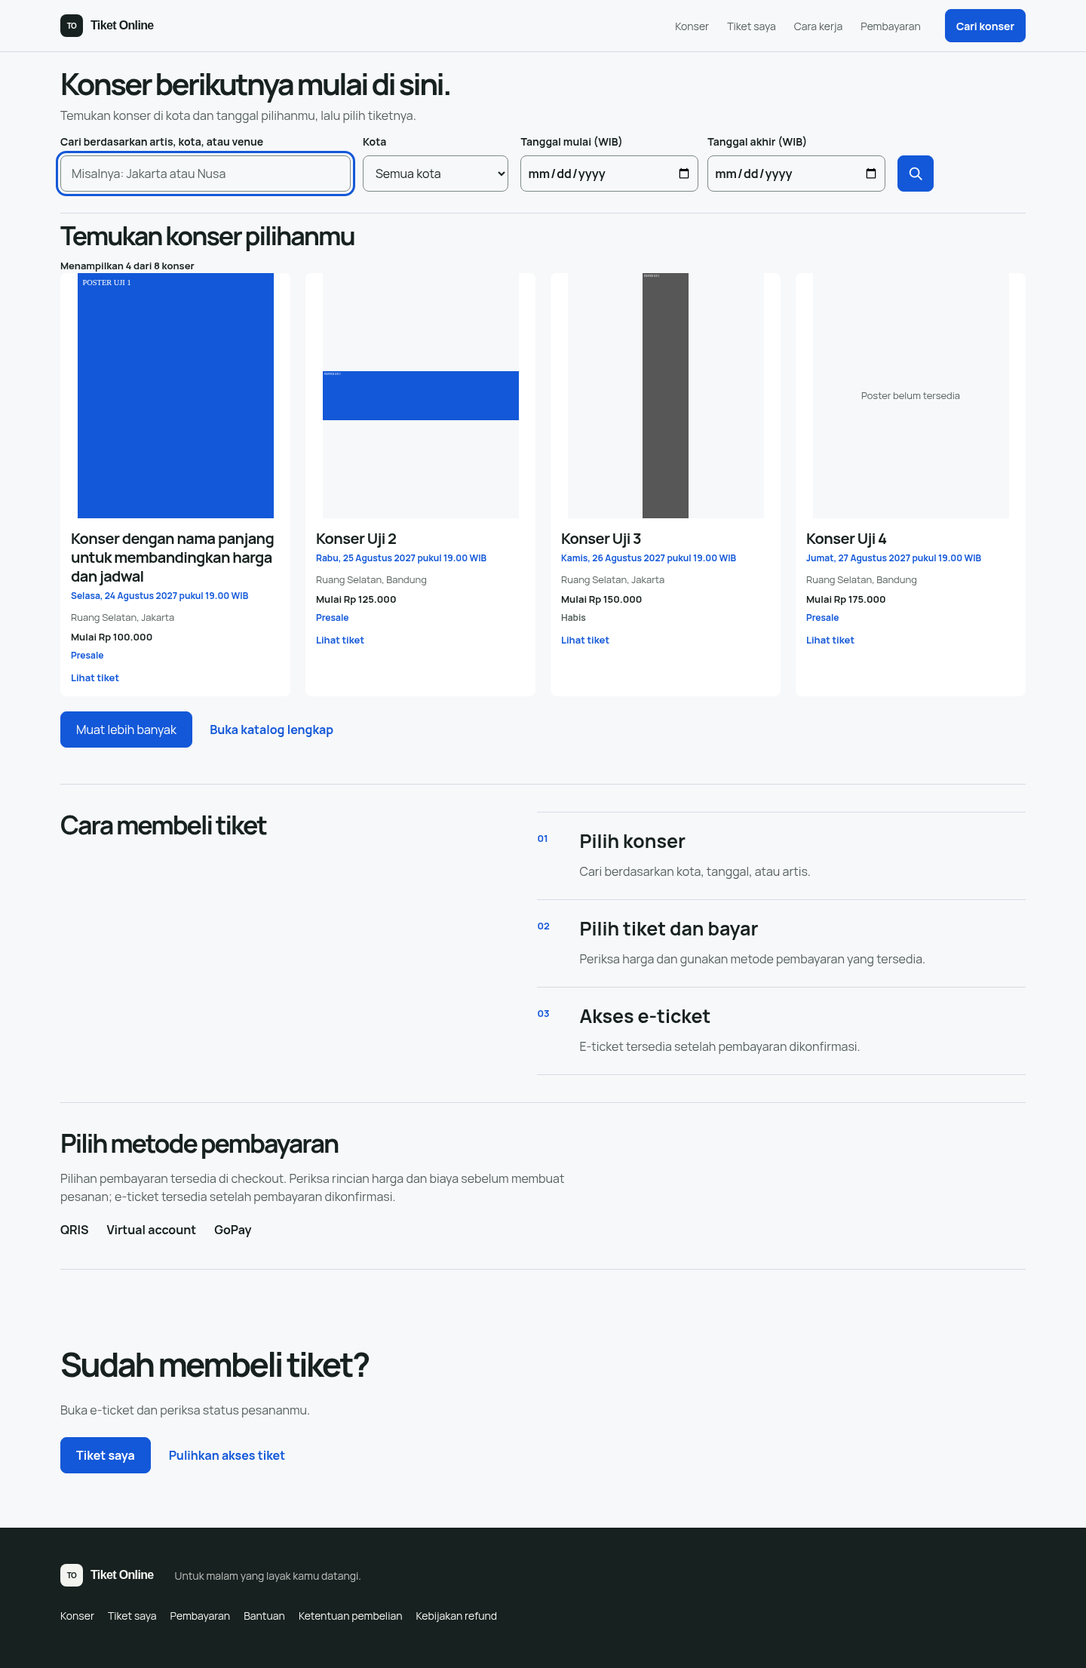
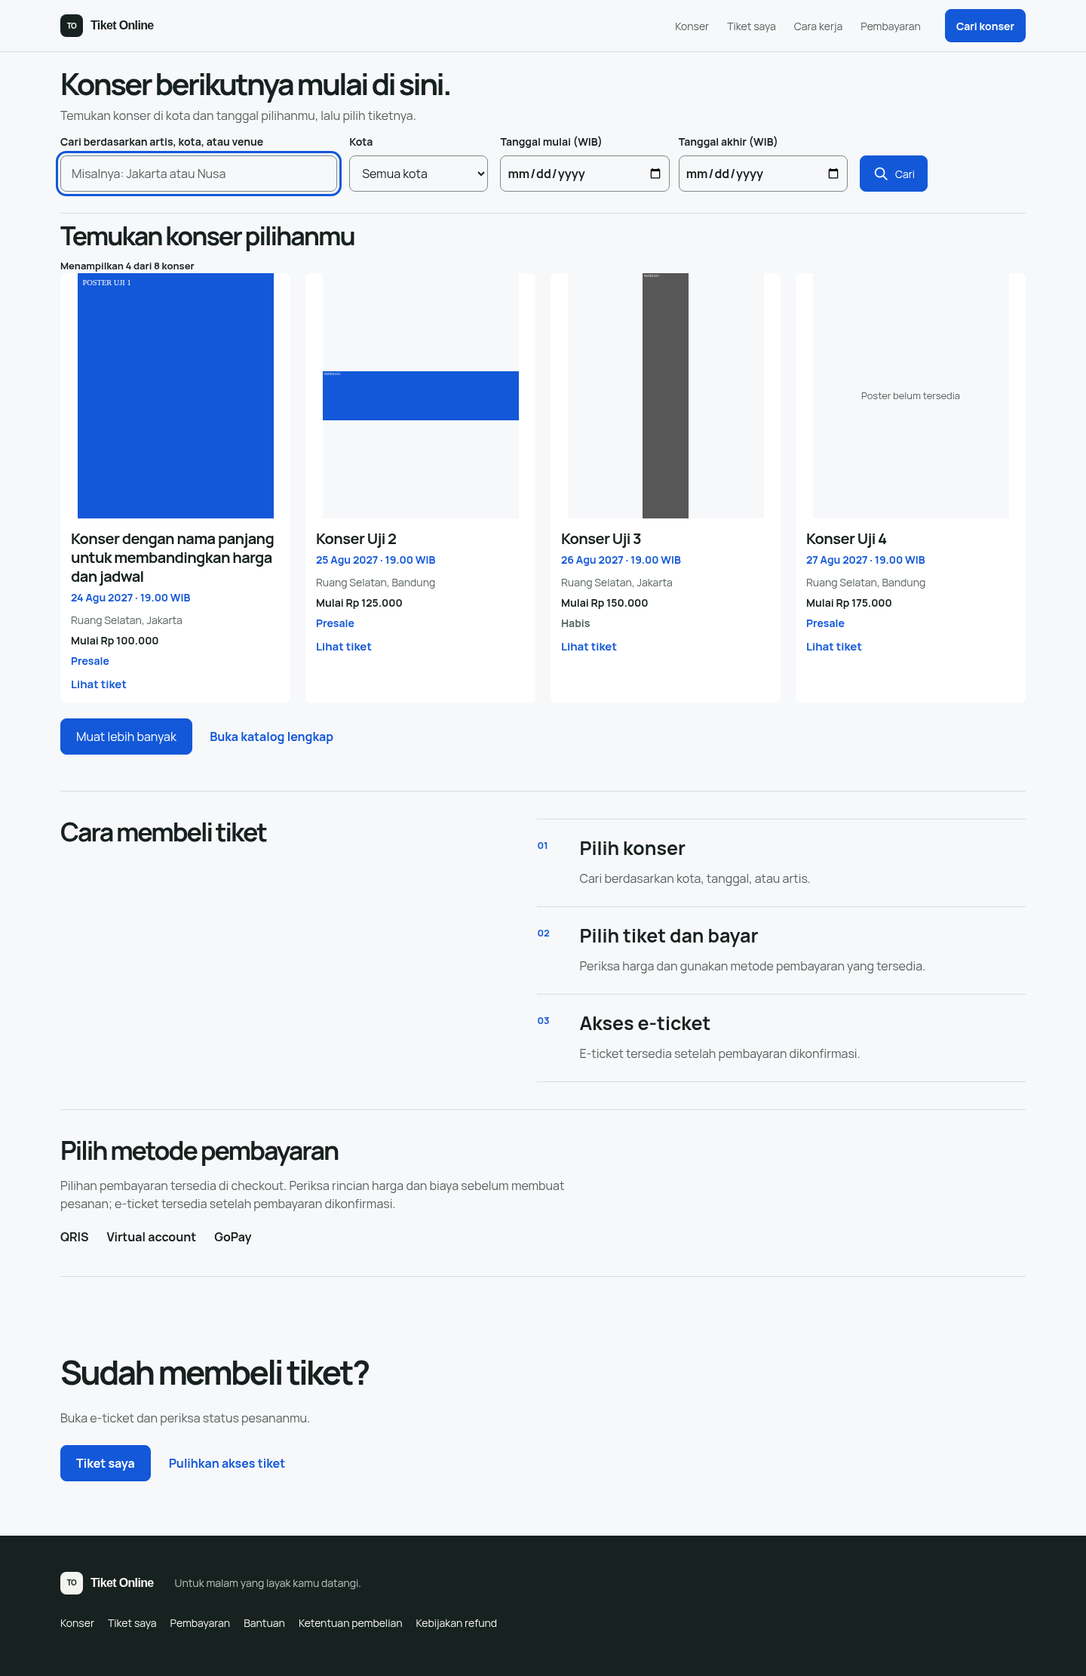
fix : redesign mobile device ui (#35)
* fix : redesign mobile device ui

* fix: apply PR #35 review feedback

- keep docs/phase59-63 evidence tracked (drop ineffective ignore rule)
- update phase59-63 and phase64-68 docs to new labels
- descriptive region names for My Tickets tabs; update Playwright selectors
- merge duplicate mobile .ticket-categories rules
- remove redundant konser.css mobile override
- assert every search action button meets 48px target
- guide eyebrow no longer repeats h1
- share WIB date guard between eventDate and cardDate

diff --git a/frontend/src/styles/pages/konser.css b/frontend/src/styles/pages/konser.css
@@ -18,7 +18,7 @@
 .filter-chip { min-height: 44px; padding: 0 12px; border: 1px solid var(--control-line); border-radius: 999px; background: var(--surface); color: var(--ink); font: inherit; font-size: 13px; cursor: pointer; }
 .filter-chip span { margin-left: 6px; color: var(--accent); font-size: 17px; }
 .filter-tools { display: flex; align-items: flex-start; gap: 20px; margin-bottom: 8px; }
-.catalog-form .search-actions { flex: 0 0 170px; }
+.catalog-form .search-actions { flex: 0 0 220px; }
 .filters { min-width: 0; flex: 1; }
 .filters summary { min-height: 48px; display: flex; align-items: center; flex-wrap: wrap; gap: 6px 16px; cursor: pointer; list-style: none; }
 .filters summary::-webkit-details-marker { display: none; }
@@ -59,13 +59,13 @@
 .poster-fallback { position: absolute; inset: 0; display: grid; place-items: center; padding: 10px; color: var(--muted); text-align: center; font-size: 13px; }
 .concert-card.is-sold-out .concert-poster { filter: grayscale(1) contrast(.9); }
 .concert-card-body { display: flex; min-width: 0; flex-direction: column; align-items: flex-start; padding: 14px; }
-.concert-meta, .concert-change { margin: 0 0 10px; color: var(--accent); font-size: 12px; font-weight: 700; line-height: 1.4; }
+.concert-meta, .concert-change { margin: 0 0 10px; color: var(--accent); font-size: 14px; font-weight: 700; line-height: 1.4; }
 .concert-change { margin: 6px 0 0; }
-.concert-action { margin-top: auto; padding-top: 10px; color: var(--accent); font-size: 13px; font-weight: 700; }
+.concert-action { margin-top: auto; padding-top: 10px; color: var(--accent); font-size: 15px; font-weight: 700; }
 .concert-card h3 { margin: 0 0 6px; font-size: 20px; line-height: 1.25; letter-spacing: -.03em; overflow-wrap: anywhere; }
-.concert-venue, .concert-price { margin: 0; color: var(--muted); font-size: 13px; line-height: 1.4; }
+.concert-venue, .concert-price { margin: 0; color: var(--muted); font-size: 14px; line-height: 1.4; }
 .concert-price { margin-top: 8px; color: var(--ink); font-weight: 700; }
-.concert-status { display: inline-flex; min-height: 26px; align-items: center; margin-top: 0; padding-top: 6px; color: var(--accent); font-size: 12px; font-weight: 700; }
+.concert-status { display: inline-flex; min-height: 26px; align-items: center; margin-top: 0; padding-top: 6px; color: var(--accent); font-size: 14px; font-weight: 700; }
 .is-sold-out .concert-status { color: var(--muted); }
 .catalog-empty { max-width: 620px; padding: 30px 0; border-top: 1px solid var(--line); }
 .catalog-empty p { margin: 0 0 14px; color: var(--muted); }
@@ -81,7 +81,6 @@
   .filter-tools { gap: 8px; flex-direction: column; }
   .catalog-search-row { flex-wrap: wrap; }
   .catalog-search-row > input { flex-basis: 240px; }
-  .catalog-form .search-actions { flex: 0 0 170px; }
   .filters { width: 100%; }
   .filters summary { gap: 5px 8px; }
   .filters summary span { flex: 1; }
@@ -92,9 +91,8 @@
   .concert-card-link { display: grid; grid-template-columns: 104px minmax(0, 1fr); min-height: 154px; }
   .concert-poster-frame { align-self: start; }
   .concert-card-body { min-height: 154px; padding: 12px; }
-  .concert-meta { margin-bottom: 6px; font-size: 11px; }
+  .concert-meta { margin-bottom: 6px; }
   .concert-card h3 { font-size: 19px; }
-  .concert-venue, .concert-price { font-size: 12px; }
-  .concert-status { padding-top: 6px; font-size: 11px; }
+  .concert-status { padding-top: 6px; }
 }
 @media (prefers-reduced-motion: reduce) { .concert-card:hover { transform: none; } }

diff --git a/frontend/src/pages/public/MyTicketsPage.svelte b/frontend/src/pages/public/MyTicketsPage.svelte
@@ -18,7 +18,7 @@
   const groups = $derived(groupBuyerOrders(orders));
   const followups = $derived(orders.filter(({ detail }) => detail?.currentEvent?.status === "POSTPONED" || detail?.status === "REFUND_PENDING" || detail?.refundRight?.requested && detail.refund?.status !== "SUCCEEDED" || detail?.refund && detail.refund.status !== "SUCCEEDED"));
   const storageFailed = $derived(orders.some((order) => order.accessSaved === false));
-  const categories = [{ id: "active", label: "Tiket aktif" }, { id: "pending", label: "Menunggu pembayaran" }, { id: "history", label: "Riwayat" }] as const;
+  const categories = [{ id: "active", label: "Aktif", region: "Tiket aktif" }, { id: "pending", label: "Belum dibayar", region: "Pesanan belum dibayar" }, { id: "history", label: "Riwayat", region: "Riwayat pesanan" }] as const;
 
   async function refreshOrder(order: BuyerOrderTickets) {
     const id = order.access.orderId;
@@ -133,7 +133,7 @@
     <nav class="ticket-categories" aria-label="Kategori pesanan">
       {#each categories as category}<button type="button" aria-pressed={selected === category.id} onclick={() => { selected = category.id; }}>{category.label} <span>{groups[category.id].length}</span></button>{/each}
     </nav>
-    <section aria-label={categories.find((category) => category.id === selected)!.label}>
+    <section aria-label={categories.find((category) => category.id === selected)!.region}>
       {#if groups[selected].length}
         <div class="my-tickets-summary"><strong>{groups[selected].length} pesanan</strong><button class="text-button" type="button" disabled={loadingOrders.length > 0} onclick={() => { for (const order of orders) void refreshOrder(order); }}>Periksa lagi</button></div>
         <ul class="my-tickets-list" aria-label="Daftar pesanan">{#each groups[selected] as order (order.access.orderId)}{@render orderCard(order)}{/each}</ul>
@@ -168,8 +168,8 @@
     .my-ticket-card-link { grid-template-columns: minmax(0, 1fr); }
     .my-ticket-mark { display: none; }
     .my-ticket-card-body { padding: 18px; }
-    .ticket-categories { gap: 6px; }
-    .ticket-categories button { padding: 10px; font-size: 14px; }
+    .ticket-categories { display: grid; grid-template-columns: repeat(3, minmax(0, 1fr)); gap: 6px; }
+    .ticket-categories button { justify-content: center; min-height: 48px; padding: 8px 6px; font-size: 14px; text-align: center; }
     .my-order-actions .button { width: 100%; }
   }
 </style>

diff --git a/frontend/src/lib/concerts.ts b/frontend/src/lib/concerts.ts
@@ -23,7 +23,15 @@ function tiers(status: TicketStatus): TicketTier[] {
 }
 
 export const formatEventDate = new Intl.DateTimeFormat("id-ID", { dateStyle: "full", timeStyle: "short", timeZone: "Asia/Jakarta" });
-export function eventDate(startsAt: string | null | undefined) { if (!startsAt || !Number.isFinite(Date.parse(startsAt))) return "Jadwal belum diumumkan"; return `${formatEventDate.format(new Date(startsAt))} WIB`; }
+function wibDate(startsAt: string | null | undefined, format: (date: Date) => string) {
+  if (!startsAt || !Number.isFinite(Date.parse(startsAt))) return "Jadwal belum diumumkan";
+  return `${format(new Date(startsAt))} WIB`;
+}
+export const eventDate = (startsAt: string | null | undefined) => wibDate(startsAt, (date) => formatEventDate.format(date));
+const formatCardDay = new Intl.DateTimeFormat("id-ID", { day: "numeric", month: "short", year: "numeric", timeZone: "Asia/Jakarta" });
+const formatCardTime = new Intl.DateTimeFormat("id-ID", { hour: "2-digit", minute: "2-digit", timeZone: "Asia/Jakarta" });
+/** Compact card date, e.g. "24 Agu 2027 · 19.30 WIB". */
+export const cardDate = (startsAt: string | null | undefined) => wibDate(startsAt, (date) => `${formatCardDay.format(date)} · ${formatCardTime.format(date)}`);
 
 function concert(id: string, artist: string, city: string, venue: string, startsAt: string, genre: Genre, price: number, status: TicketStatus): Concert {
   return { id, artist, city, venue, address: `Jl. Musik Raya, ${city}`, date: eventDate(startsAt), startsAt, genre, price, status, image: `https://picsum.photos/seed/${id}/900/1100`, description: `${artist} hadir dalam konser contoh dengan pilihan tiket untuk area panggung dan penonton.`, lineup: [artist, "Pembuka Sore", "Tamu Spesial"], zones, ticketTiers: tiers(status).map((tier) => tier.name === "Festival" ? { ...tier, price } : tier) };

diff --git a/frontend/src/pages/public/ConcertCatalogPage.svelte b/frontend/src/pages/public/ConcertCatalogPage.svelte
@@ -96,7 +96,7 @@
     <form class="catalog-form" role="search" onsubmit={search}>
     <div class="results">
       <div class="catalog-search"><label for="concert-query">Cari konser</label><div class="catalog-search-row"><input bind:this={input} bind:value={query} id="concert-query" name="query" type="search" autocomplete="off" placeholder="Artis, venue, atau kota" />
-      <div class="search-actions"><button class="button search-submit" type="submit" aria-label="Cari" title="Cari"><svg width="22" height="22" viewBox="0 0 24 24" fill="none" stroke="currentColor" stroke-width="2" stroke-linecap="round" aria-hidden="true"><circle cx="10.5" cy="10.5" r="6.5" /><path d="m16 16 4.5 4.5" /></svg></button>{#if searched}<button class="button reset-filters" type="button" onclick={reset}>Reset filter</button>{/if}</div>
+      <div class="search-actions"><button class="button search-submit" type="submit"><svg width="22" height="22" viewBox="0 0 24 24" fill="none" stroke="currentColor" stroke-width="2" stroke-linecap="round" aria-hidden="true"><circle cx="10.5" cy="10.5" r="6.5" /><path d="m16 16 4.5 4.5" /></svg>Cari</button>{#if searched}<button class="button reset-filters" type="button" onclick={reset}>Reset filter</button>{/if}</div>
       </div></div>
       {#if loading}<p class="results-count" role="status" aria-live="polite">Memuat katalog konser...</p>{:else if error}<div class="empty-state" role="alert"><p>{error}</p><button class="text-button" type="button" onclick={() => load()}>Coba lagi</button></div>{:else}<div class="results-topline"><p class="sample-note">Katalog terbaru.</p><p class="results-count" aria-live="polite">{matches.length ? `${matches.length} konser ditemukan` : "Tidak ada konser ditemukan"}</p></div>{/if}
     </div>

diff --git a/frontend/src/components/ConcertCard.svelte b/frontend/src/components/ConcertCard.svelte
@@ -1,5 +1,5 @@
 <script lang="ts">
-  import { eventDate, formatRupiah, type Concert } from "../lib/concerts.ts";
+  import { cardDate, formatRupiah, type Concert } from "../lib/concerts.ts";
   import { canBuy, eventStatus } from "../lib/event-changes.ts";
   let { concert, featuredPoster = false }: { concert: Concert; featuredPoster?: boolean } = $props();
   const changedStatus = $derived(eventStatus(concert.currentEvent));
@@ -16,7 +16,7 @@
     </div>
     <div class="concert-card-body">
       <h3>{concert.artist}</h3>
-      <p class="concert-meta">{eventDate(concert.currentEvent ? concert.currentEvent.startsAt : concert.startsAt)}</p>
+      <p class="concert-meta">{cardDate(concert.currentEvent ? concert.currentEvent.startsAt : concert.startsAt)}</p>
       <p class="concert-venue">{concert.venue}, {concert.city}</p>
       <p class="concert-price">{concert.ticketTiers.length ? `Mulai ${formatRupiah.format(Math.min(...concert.ticketTiers.map((tier) => tier.price)))}` : "Tiket belum tersedia"}</p>
       {#if changedStatus}<p class="concert-change">{changedStatus}</p>{/if}

diff --git a/frontend/src/pages/public/HomePage.svelte b/frontend/src/pages/public/HomePage.svelte
@@ -55,7 +55,7 @@
         </div>
       </details>
     </div>
-    <div class="search-actions"><button class="button search-submit" type="submit" aria-label="Cari" title="Cari"><svg width="22" height="22" viewBox="0 0 24 24" fill="none" stroke="currentColor" stroke-width="2" stroke-linecap="round" aria-hidden="true"><circle cx="10.5" cy="10.5" r="6.5" /><path d="m16 16 4.5 4.5" /></svg></button>{#if searched}<button class="button reset-filters" type="button" onclick={reset}>Reset filter</button>{/if}</div>
+    <div class="search-actions"><button class="button search-submit" type="submit"><svg width="22" height="22" viewBox="0 0 24 24" fill="none" stroke="currentColor" stroke-width="2" stroke-linecap="round" aria-hidden="true"><circle cx="10.5" cy="10.5" r="6.5" /><path d="m16 16 4.5 4.5" /></svg>Cari</button>{#if searched}<button class="button reset-filters" type="button" onclick={reset}>Reset filter</button>{/if}</div>
   </form>
 </section>
 <section class="event-section shell" id="konser" aria-labelledby="event-title">

diff --git a/frontend/src/styles/pages/panduan.css b/frontend/src/styles/pages/panduan.css
@@ -22,8 +22,8 @@
 @keyframes guide-reveal { from { opacity: 0; transform: translateY(-4px); } to { opacity: 1; transform: translateY(0); } }
 @media (prefers-reduced-motion: reduce) { .accordion-panel { animation: none; } }
 @media (max-width: 767px) {
-  .guide-hero { grid-template-columns: 1fr; gap: 24px; padding-block: 52px 28px; }
-  .guide-hero h1 { font-size: clamp(44px, 13vw, 64px); }
+  .guide-hero { grid-template-columns: 1fr; gap: 12px; padding-block: 32px 20px; }
+  .guide-hero h1 { font-size: clamp(34px, 10vw, 44px); line-height: 1.05; }
   .guide-intro { margin: 0; font-size: 16px; }
   .guide-index { grid-template-columns: repeat(2, minmax(0, 1fr)); }
   .guide-index a { min-width: 0; min-height: 58px; overflow-wrap: anywhere; }

diff --git a/frontend/src/styles/public.css b/frontend/src/styles/public.css
@@ -52,7 +52,7 @@
 .public-site .reset-filters:hover { border-color: var(--accent); background: var(--accent); color: var(--accent-ink); }
 .public-site .search-actions { display: flex; width: 100%; min-width: 0; align-items: flex-start; gap: 10px; }
 .public-site .search-actions .button { min-width: 0; min-height: 48px; padding: 10px 16px; font-size: 14px; }
-.public-site .search-actions .search-submit { flex: 0 0 48px; width: 48px; height: 48px; padding: 0; }
+.public-site .search-actions .search-submit { flex: 0 0 auto; gap: 8px; height: 48px; }
 .public-site h1 { overflow-wrap: anywhere; }
 .public-site :where(.wordmark) { font-family: Arial, Helvetica, sans-serif; }
 .public-site :where(.my-tickets-heading h1) { overflow-wrap: anywhere; }

diff --git a/frontend/src/lib/concerts.test.ts b/frontend/src/lib/concerts.test.ts
@@ -1,5 +1,12 @@
 import { expect, test } from "bun:test";
-import { concerts, getConcertById, parseCheckoutQuantities } from "./concerts.ts";
+import { cardDate, concerts, getConcertById, parseCheckoutQuantities } from "./concerts.ts";
+
+test("formats compact card dates in WIB", () => {
+  expect(cardDate("2027-08-24T19:30:00+07:00")).toBe("24 Agu 2027 · 19.30 WIB");
+  expect(cardDate("2027-08-24T23:30:00Z")).toBe("25 Agu 2027 · 06.30 WIB");
+  expect(cardDate(null)).toBe("Jadwal belum diumumkan");
+  expect(cardDate("bukan tanggal")).toBe("Jadwal belum diumumkan");
+});
 
 test("resolves unique URL-safe concert IDs", () => {
   expect(new Set(concerts.map((concert) => concert.id)).size).toBe(concerts.length);

diff --git a/frontend/src/styles/pages/index.css b/frontend/src/styles/pages/index.css
@@ -62,7 +62,7 @@
 @media (max-width: 767px) { .home-filter-fields { grid-template-columns: 1fr; gap: 12px; } }
 
 @media (min-width: 1024px) {
-  .event-search { display: grid; grid-template-columns: minmax(0, 1fr) minmax(0, 1.8fr) 170px; gap: 16px; max-width: none; }
+  .event-search { display: grid; grid-template-columns: minmax(0, 1fr) minmax(0, 1.8fr) 220px; gap: 16px; max-width: none; }
   .event-search .filters[open] summary { display: none; }
   .event-search .filter-tools { margin: 0; align-items: flex-end; }
   .home-filter-fields { grid-template-columns: minmax(0, .8fr) minmax(0, 2fr); gap: 16px; padding: 0; }

diff --git a/frontend/src/pages/public/GuidePage.svelte b/frontend/src/pages/public/GuidePage.svelte
@@ -33,8 +33,8 @@
 
 <section class="guide-hero shell" aria-labelledby="guide-title">
   <div>
-    <p class="eyebrow">PANDUAN TIKET</p>
-    <h1 id="guide-title">Semua yang perlu kamu tahu sebelum datang.</h1>
+    <p class="eyebrow">BANTUAN</p>
+    <h1 id="guide-title">Panduan tiket dan konser</h1>
   </div>
   <p class="guide-intro">Temukan cara mengakses tiket, menyelesaikan pembayaran, dan menyiapkan QR sebelum tiba di gate.</p>
 </section>

diff --git a/frontend/scripts/buyer-tickets-ui-check.py b/frontend/scripts/buyer-tickets-ui-check.py
@@ -99,7 +99,7 @@ async def main():
             await expect(active.locator('article')).to_have_count(2)
             await expect(active.locator('.my-ticket-mark')).to_have_text(['E-ticket', 'E-ticket'])
             await expect(review.locator('article')).to_have_count(4)
-            await expect(page.get_by_role('button', name='Tiket aktif 2', exact=True)).to_have_attribute('aria-pressed', 'true')
+            await expect(page.get_by_role('button', name='Aktif 2', exact=True)).to_have_attribute('aria-pressed', 'true')
             await expect(active.get_by_text('2 tiket dipesan · 1 dapat digunakan', exact=True)).to_be_visible()
             await audit(page)
             await page.screenshot(path=str(OUTPUT / f'active-{width}.png'), full_page=True)
@@ -107,10 +107,10 @@ async def main():
             await audit(page)
             await page.screenshot(path=str(OUTPUT / f'active-dark-{width}.png'), full_page=True)
             await page.emulate_media(color_scheme='light')
-            await page.get_by_role('button', name='Menunggu pembayaran 4', exact=True).focus()
+            await page.get_by_role('button', name='Belum dibayar 4', exact=True).focus()
             await page.keyboard.press('Space')
-            await expect(page.get_by_role('button', name='Menunggu pembayaran 4', exact=True)).to_have_attribute('aria-pressed', 'true')
-            await page.get_by_role('button', name='Tiket aktif 2', exact=True).click()
+            await expect(page.get_by_role('button', name='Belum dibayar 4', exact=True)).to_have_attribute('aria-pressed', 'true')
+            await page.get_by_role('button', name='Aktif 2', exact=True).click()
 
             await expect(active.locator('a.button').first).to_have_attribute('href', '/tiket/' + tickets['single'][0]['id'])
             await active.locator('summary').click()
@@ -118,8 +118,8 @@ async def main():
             await active.get_by_role('link', name='Dimas Pratama · Tribune').click()
             await expect(page.locator('.pass-grid')).to_contain_text('Dimas Pratama')
             await page.goto(BASE + '/tiket-saya')
-            await page.get_by_role('button', name='Menunggu pembayaran 4', exact=True).click()
-            pending = page.get_by_role('region', name='Menunggu pembayaran', exact=True)
+            await page.get_by_role('button', name='Belum dibayar 4', exact=True).click()
+            pending = page.get_by_role('region', name='Pesanan belum dibayar', exact=True)
             await expect(pending.locator('article')).to_have_count(4)
             await expect(pending.locator('.my-ticket-mark')).to_have_text(['Menunggu pembayaran'] * 4)
             await expect(pending.get_by_role('button', name='Lanjutkan pembayaran', exact=True)).to_have_count(2)
@@ -128,7 +128,7 @@ async def main():
             await audit(page)
             await page.screenshot(path=str(OUTPUT / f'pending-{width}.png'), full_page=True)
             await page.get_by_role('button', name='Riwayat 5', exact=True).click()
-            history = page.get_by_role('region', name='Riwayat', exact=True)
+            history = page.get_by_role('region', name='Riwayat pesanan', exact=True)
             await expect(history.locator('.my-ticket-status').filter(has_text='Pesanan kedaluwarsa')).to_be_visible()
             await expect(history.locator('article').filter(has_text='Konser expired').locator('.my-ticket-mark')).to_have_text('Pesanan kedaluwarsa')
             await expect(history.locator('article').filter(has_text='Konser cancelled').locator('.my-ticket-mark')).to_have_text('Pesanan dibatalkan')
@@ -140,17 +140,17 @@ async def main():
             state['fail'] = False
             await review.locator('article').filter(has_text='0000000000000000000d').get_by_role('button', name='Coba lagi').click()
             await expect(review.locator('article')).to_have_count(4)
-            await page.get_by_role('button', name='Menunggu pembayaran 4', exact=True).click()
+            await page.get_by_role('button', name='Belum dibayar 4', exact=True).click()
             # A late payment confirmation during the click moves categories without starting a payment.
             orders['pending']['status'] = 'PAID'
             tickets['pending'] = copy.deepcopy(tickets['multiple'])
             await pending.locator('article').filter(has_text='Konser pending').get_by_role('button', name='Lanjutkan pembayaran').click()
-            await expect(page.get_by_role('button', name='Tiket aktif 3', exact=True)).to_be_visible()
+            await expect(page.get_by_role('button', name='Aktif 3', exact=True)).to_be_visible()
             assert not state['posts']
             orders['pending']['status'] = 'PENDING'
             tickets['pending'] = []
             await page.goto(BASE + '/tiket-saya')
-            await page.get_by_role('button', name='Menunggu pembayaran 4', exact=True).click()
+            await page.get_by_role('button', name='Belum dibayar 4', exact=True).click()
             await pending.locator('article').filter(has_text='Konser pending').get_by_role('button', name='Lanjutkan pembayaran').click()
             await expect(page).to_have_url(BASE + '/pesanan/' + orders['pending']['id'] + '#pembayaran')
             await page.locator('#order-payment-method').select_option('GOPAY')
@@ -178,10 +178,10 @@ async def main():
             orders['pending']['status'] = 'PAID'
             tickets['pending'] = copy.deepcopy(tickets['multiple'])
             await page.goto(BASE + '/tiket-saya')
-            await expect(page.get_by_role('button', name='Tiket aktif 3', exact=True)).to_be_visible()
+            await expect(page.get_by_role('button', name='Aktif 3', exact=True)).to_be_visible()
             for item in tickets['pending']: item['usable'] = False
             await active.get_by_role('button', name='Periksa lagi').click()
-            await expect(page.get_by_role('button', name='Tiket aktif 2', exact=True)).to_be_visible()
+            await expect(page.get_by_role('button', name='Aktif 2', exact=True)).to_be_visible()
             await expect(page.get_by_role('button', name='Riwayat 6', exact=True)).to_be_visible()
             await page.goto(BASE + '/pesanan/' + orders['deadline']['id'] + '#pembayaran')
             await expect(page.locator('#pembayaran').get_by_role('button', name='Periksa status pembayaran')).to_be_visible()
